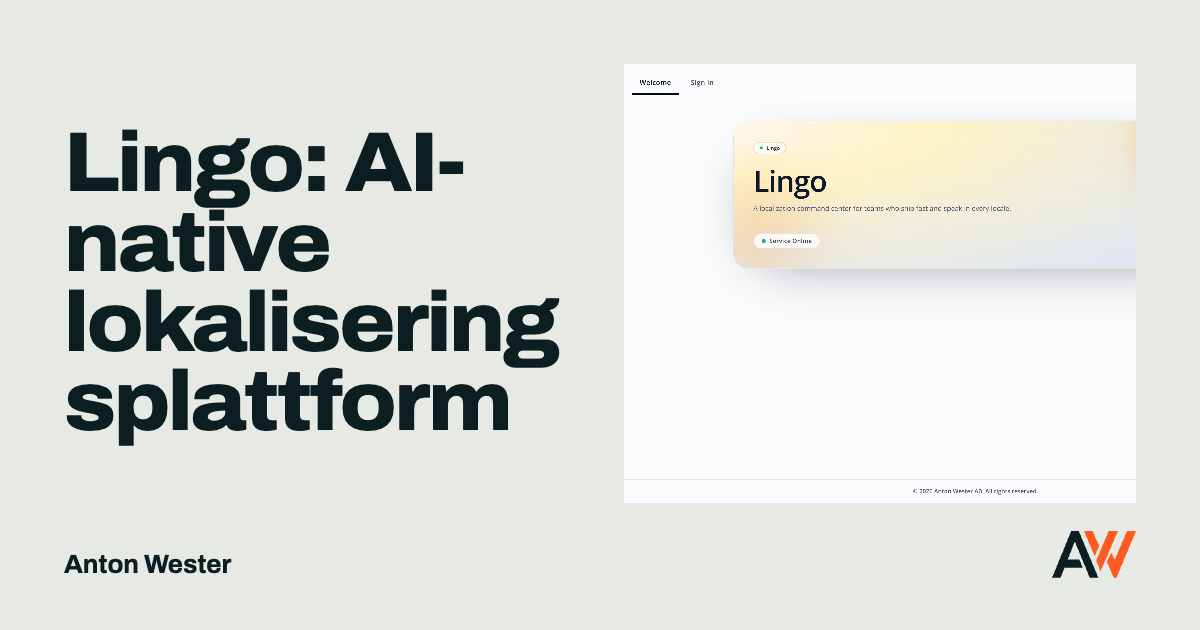
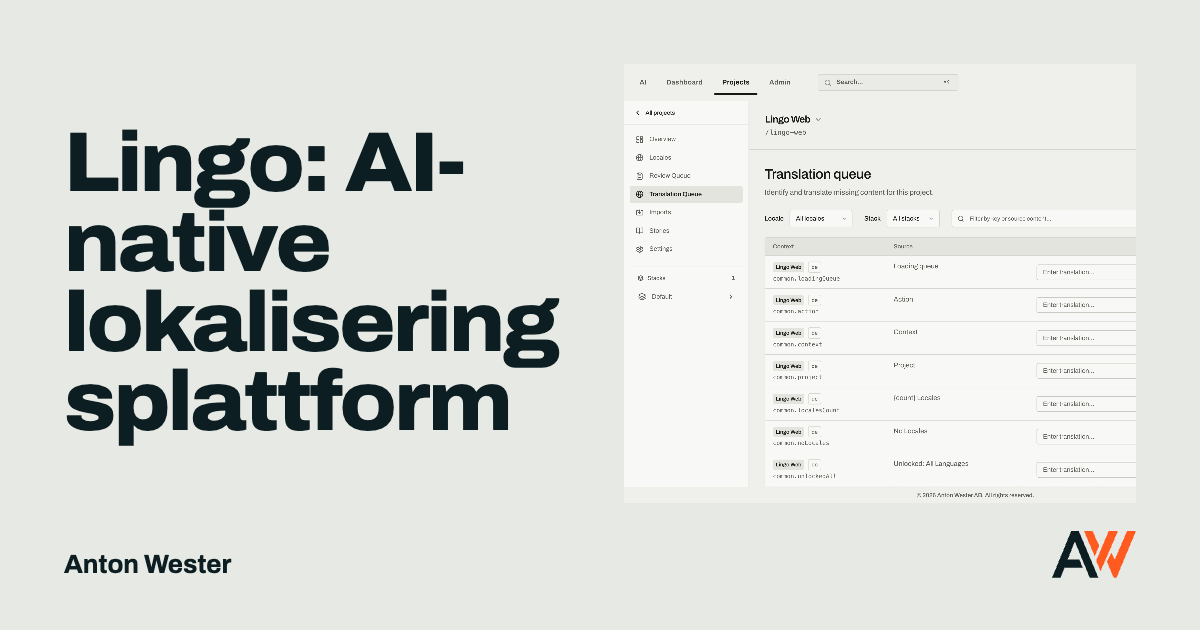
content: Lingo case with auto-translate, MCP and a fresh shot from the live app
- facts and copy cover AI filling in missing languages, translation memory and MCP
- Postgres in the stack; shot taken from lingo.antonwester.se; og images rebuilt

diff --git a/src/content/cases.ts b/src/content/cases.ts
@@ -219,17 +219,19 @@ export const cases: Record<CaseId, L10n<CaseContent>> = {
       url: 'https://lingo.antonwester.se',
       privateLabel: null,
       facts: [
-        { value: 'AI', label: 'gör första översättningen' },
+        { value: 'AI', label: 'fyller i saknade översättningar' },
         { value: 'Egen server', label: 'körs hos er' },
-        { value: 'SDK, API, CLI', label: 'för utvecklare' },
+        { value: 'SDK, API, CLI, MCP', label: 'för utvecklare och AI-agenter' },
       ],
       what: [
         'En plattform där team sköter alla översättningar på ett ställe. AI skriver första versionen, och människor läser och godkänner innan något publiceras.',
+        'När en ny text läggs till fyller AI i de språk som saknas, inom en minut. Ni väljer per projekt om AI:s översättningar godkänns direkt eller väntar på granskning. Editorn föreslår också tidigare översättningar av liknande texter.',
       ],
       how: [
-        'Byggd i React och TypeScript med Bun och Hono. Utvecklare hämtar översättningarna direkt in i koden via en SDK, ett API eller ett CLI.',
+        'Byggd i React och TypeScript med Bun och Hono, och Postgres för data. Utvecklare hämtar översättningarna direkt in i koden via en SDK, ett API eller ett CLI, med färdiga typer för varje version.',
+        'AI-agenter som Claude Code kan sköta Lingo via MCP: granska, godkänna och lägga till nycklar. Standardmodellen för översättning körs på min egen AI-server.',
       ],
-      stack: ['React', 'TypeScript', 'Bun', 'Hono'],
+      stack: ['React', 'TypeScript', 'Bun', 'Hono', 'Postgres'],
       proves: [
         'Hur en produktidé och bra verktyg för utvecklare kan bli en plattform, där AI gör grovjobbet och människor behåller kontrollen.',
       ],
@@ -250,17 +252,19 @@ export const cases: Record<CaseId, L10n<CaseContent>> = {
       url: 'https://lingo.antonwester.se',
       privateLabel: null,
       facts: [
-        { value: 'AI', label: 'writes the first translation' },
+        { value: 'AI', label: 'fills in missing translations' },
         { value: 'Your server', label: 'runs on your own systems' },
-        { value: 'SDK, API, CLI', label: 'for developers' },
+        { value: 'SDK, API, CLI, MCP', label: 'for developers and AI agents' },
       ],
       what: [
         'A platform where teams handle all their translations in one place. AI writes the first version, and people read and approve it before anything goes live.',
+        'When a new text is added, AI fills in the missing languages within a minute. Per project, you choose whether AI translations are approved at once or wait for review. The editor also suggests earlier translations of similar texts.',
       ],
       how: [
-        'Built in React and TypeScript with Bun and Hono. Developers pull translations straight into their code through an SDK, an API or a CLI.',
+        'Built in React and TypeScript with Bun and Hono, with Postgres for data. Developers pull translations straight into their code through an SDK, an API or a CLI, with ready-made types for each version.',
+        'AI agents such as Claude Code can run Lingo over MCP: review, approve and add keys. The default translation model runs on my own AI server.',
       ],
-      stack: ['React', 'TypeScript', 'Bun', 'Hono'],
+      stack: ['React', 'TypeScript', 'Bun', 'Hono', 'Postgres'],
       proves: [
         'How a product idea and good developer tools can become one platform, where AI does the heavy lifting and people keep control.',
       ],
